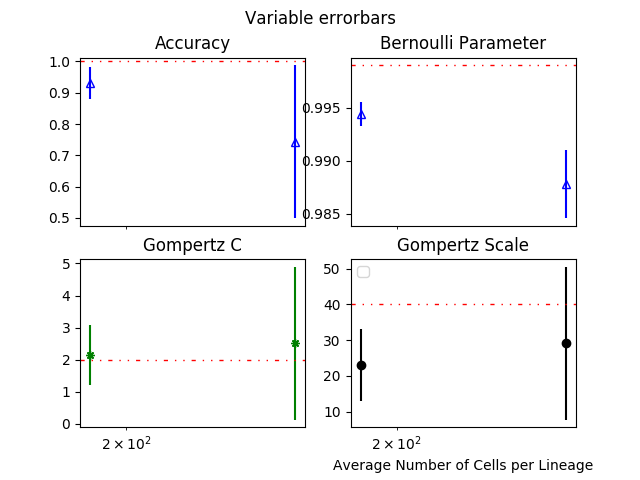
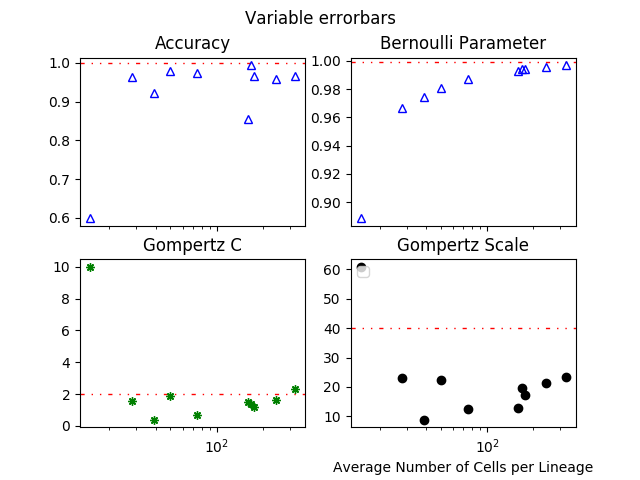
use the two files that end with hyphen test

diff --git a/lineage_number-test.py b/lineage_number-test.py
@@ -1,0 +1,133 @@
+import unittest
+import numpy as np
+import matplotlib
+matplotlib.use('Agg')
+from matplotlib import pyplot as plt
+
+
+from lineage.BaumWelch import fit
+from lineage.DownwardRecursion import get_root_gammas, get_nonroot_gammas
+from lineage.Viterbi import get_leaf_deltas, get_nonleaf_deltas, Viterbi
+from lineage.UpwardRecursion import get_leaf_Normalizing_Factors, get_leaf_betas, get_nonleaf_NF_and_betas
+from lineage.tHMM import tHMM
+from lineage.tHMM_utils import max_gen, get_gen, get_parents_for_level
+from lineage.Lineage_utils import remove_NaNs, get_numLineages, init_Population
+from lineage.Lineage_utils import generatePopulationWithTime as gpt
+from lineage.CellNode import CellNode
+
+experimentTime = 60
+locBern = [0.999]
+cGom = [2]
+scaleGom = [40]
+reps = 3
+numStates = 2
+bern = []
+c = []
+scale = []
+
+
+accuracy_st = []
+bern_st = []
+c_st = []
+scale_st = []
+
+
+length_holder_tHMM = []
+
+lineage1 = 1
+lineage2 = 8
+populations = range(lineage1,lineage2)
+
+accuracy_holder_tHMM = [] #list of lists of lists
+
+for num in populations: #a pop with num number of lineages
+    accuracy_holder_lin = [] #list of lists        
+    bern_holder = []
+    c_holder = []
+    scale_holder = []  
+    for rep in range(reps):
+        accuracy_rep = []
+        bern_rep = []
+        c_rep = []
+        scale_rep = []
+        
+        initCells = [num]
+        X1 = gpt(experimentTime, initCells, locBern, cGom, scaleGom)
+        X = remove_NaNs(X1)
+        tHMMobj = tHMM(X, numStates=numStates) # build the tHMM class with X
+        fit(tHMMobj, verbose=False)
+        for lin in range(tHMMobj.numLineages): #go through each lineage for a thmm with a set of lineages
+            diag = np.diagonal(tHMMobj.paramlist[lin]["T"])
+            chosen_state = np.argmax(diag)
+            deltas, state_ptrs = get_leaf_deltas(tHMMobj) # gets the deltas matrix
+            get_nonleaf_deltas(tHMMobj, deltas, state_ptrs)
+            v = Viterbi(tHMMobj, deltas, state_ptrs)
+            counts = np.bincount(v[lin])
+            maxcount = np.argmax(counts)
+            a = np.zeros((len(v[lin])),dtype=int)
+            for i in range(len(v[lin])):
+                a[i] = maxcount
+            wrong = 0
+            lineage = tHMMobj.population[lin] # getting the lineage in the Population by lineage index
+            for cell in range(len(lineage)): # for each cell in the lineage
+                if v[lin][cell] == a[cell]:
+                    pass
+                            #print(viterbi[cell.index],actual[cell.index])
+                else:
+                    wrong = wrong + 1
+
+            accuracy = (len(lineage) - wrong)/len(lineage) #must be fixed for more than 1 lineage
+            
+            accuracy_rep.append(accuracy)
+            bern_rep.append(tHMMobj.paramlist[lin]["E"][chosen_state,0])
+            c_rep.append(tHMMobj.paramlist[lin]["E"][chosen_state,1])
+            scale_rep.append(tHMMobj.paramlist[lin]["E"][chosen_state,2])
+        
+        accuracy_holder_lin.append(np.mean(accuracy_rep))
+        bern_holder.append(np.mean(bern_rep))
+        c_holder.append(np.mean(c_rep))
+        scale_holder.append(np.mean(scale_rep))
+    
+    accuracy_holder_tHMM.append(np.mean(accuracy_holder_lin))
+    length_holder_tHMM.append(num)
+    bern.append(np.mean(bern_holder))
+    c.append(np.mean(c_holder))
+    scale.append(np.mean(scale_holder))
+    
+    accuracy_st.append(np.std(accuracy_holder_lin))
+    bern_st.append(np.std(bern_holder))
+    c_st.append(np.std(c_holder))
+    scale_st.append(np.std(scale_holder))
+    
+    x=length_holder_tHMM
+
+fig, axs = plt.subplots(nrows=2, ncols=2, sharex=True)
+ax = axs[0,0]
+plt.xlabel('Average Number of Cells per Lineage')
+ax.errorbar(x, accuracy_holder_tHMM, yerr=accuracy_st, fmt='o', c='b',marker="*",fillstyle='none')
+ax.axhline(y=1, linestyle = (0, (3, 5, 1, 5, 1, 5)), linewidth=1, color='r',)
+
+ax.set_title('Accuracy')
+#ax.locator_params(nbins=4)
+ax = axs[0,1]
+plt.xlabel('Average Number of Cells per Lineage')
+ax.errorbar(x, bern, yerr=bern_st, fmt='o', c='b',marker="^",fillstyle='none')
+ax.set_title('Bernoulli Parameter')
+ax.axhline(y=locBern, linestyle = (0, (3, 5, 1, 5, 1, 5)), linewidth=1, color='r',)
+
+ax = axs[1,0]
+ax.set_xlabel('Lineages per Population')
+ax.errorbar(x,c,yerr = c_st,fmt='o',c='g',marker=(8,2,0))
+ax.axhline(y=cGom, linestyle = (0, (3, 5, 1, 5, 1, 5)), linewidth=1, color='r',)
+ax.set_title('Gompertz C')
+
+
+ax = axs[1,1]
+ax.set_xlabel('Lineages per Population')
+ax.errorbar(x,scale,yerr = scale_st,fmt='o',c='k')
+ax.axhline(y=scaleGom, linestyle = (0, (3, 5, 1, 5, 1, 5)), linewidth=1, color='r',)
+ax.set_title('Gompertz Scale')
+
+fig.suptitle('Lineage Length effect on tHMM Classification')
+
+plt.savefig('lineage_number_classification.png')

diff --git a/tree_length-test.py b/tree_length-test.py
@@ -1,0 +1,138 @@
+import unittest
+import numpy as np
+import matplotlib
+matplotlib.use('Agg')
+from matplotlib import pyplot as plt
+
+
+from lineage.BaumWelch import fit
+from lineage.DownwardRecursion import get_root_gammas, get_nonroot_gammas
+from lineage.Viterbi import get_leaf_deltas, get_nonleaf_deltas, Viterbi
+from lineage.UpwardRecursion import get_leaf_Normalizing_Factors, get_leaf_betas, get_nonleaf_NF_and_betas
+from lineage.tHMM import tHMM
+from lineage.tHMM_utils import max_gen, get_gen, get_parents_for_level
+from lineage.Lineage_utils import remove_NaNs, get_numLineages, init_Population
+from lineage.Lineage_utils import generatePopulationWithTime as gpt
+from lineage.CellNode import CellNode
+
+initCells = [1] # there should be around 50 lineages b/c there are 50 initial cells
+locBern = [0.999]
+cGom = [2]
+scaleGom = [40]
+reps = 3
+numStates = 2
+
+lin_length = []
+
+accuracy_holder_holder = []
+bern = []
+c = []
+scale = []
+cells = []
+
+
+accuracy_st = []
+bern_st = []
+c_st = []
+scale_st = []
+cells_st = []
+
+time1 = 75
+time2 = 90
+times = range(time1,time2)
+
+for experimentTime in times:
+    accuracy_holder = []
+    bern_holder = []
+    c_holder = []
+    scale_holder = []
+    cells_holder = []
+    for rep in range(reps):
+        X1 = gpt(experimentTime, initCells, locBern, cGom, scaleGom)
+        X = remove_NaNs(X1)
+        tHMMobj = tHMM(X, numStates=numStates) # build the tHMM class with X
+        fit(tHMMobj, verbose=False)
+        diag = np.diagonal(tHMMobj.paramlist[0]["T"])
+        chosen_state = np.argmax(diag)
+            
+        deltas, state_ptrs = get_leaf_deltas(tHMMobj) # gets the deltas matrix
+        get_nonleaf_deltas(tHMMobj, deltas, state_ptrs)
+        v = Viterbi(tHMMobj, deltas, state_ptrs)
+
+        counts = np.bincount(v[0])
+        maxcount = np.argmax(counts)
+        a = np.zeros((len(v[0])),dtype=int)
+        for i in range(len(v[0])):
+            a[i] = maxcount
+        
+        #write a holder for all lineages
+        wrong = 0
+        for num in range(tHMMobj.numLineages): # for each lineage in our Population
+            lineage = tHMMobj.population[num] # getting the lineage in the Population by lineage index
+
+            for cell in range(len(lineage)): # for each cell in the lineage
+                if v[0][cell] == a[cell]:
+                    pass
+                    #print(viterbi[cell.index],actual[cell.index])
+                else:
+                    wrong = wrong + 1
+            
+        accuracy = (len(lineage) - wrong)/len(lineage) #must be fixed for more than 1 lineage
+        
+        accuracy_holder.append(accuracy)
+        bern_holder.append(tHMMobj.paramlist[0]["E"][chosen_state,0])
+        c_holder.append(tHMMobj.paramlist[0]["E"][chosen_state,1])
+        scale_holder.append(tHMMobj.paramlist[0]["E"][chosen_state,2])
+        cells_holder.append(len(lineage))
+        
+    accuracy_holder_holder.append(np.mean(accuracy_holder))
+    bern.append(np.mean(bern_holder))
+    c.append(np.mean(c_holder))
+    scale.append(np.mean(scale_holder))
+    cells.append(np.mean(cells_holder))
+
+    accuracy_st.append(np.std(accuracy_holder))
+    bern_st.append(np.std(bern_holder))
+    c_st.append(np.std(c_holder))
+    scale_st.append(np.std(scale_holder))
+    cells_st.append(np.std(cells_holder))
+    
+    x=cells
+
+#figure 1a - accuracy
+
+
+
+
+# Now switch to a more OO interface to exercise more features.
+fig, axs = plt.subplots(nrows=2, ncols=2, sharex=True)
+ax = axs[0,0]
+ax.set_xscale('log')
+ax.errorbar(x, accuracy_holder_holder, yerr=accuracy_st, fmt='o', c='b',marker="*",label='accuracy',fillstyle='none')
+ax.axhline(y=1, linestyle = (0, (3, 5, 1, 5, 1, 5)), linewidth=1, color='r',)
+
+ax.set_title('Accuracy')
+#ax.locator_params(nbins=4)
+ax = axs[0,1]
+ax.set_xscale('log')
+ax.errorbar(x, bern, yerr=bern_st, fmt='o', c='b',marker="^",label='bern',fillstyle='none')
+ax.set_title('Bernoulli Parameter')
+ax.axhline(y=locBern, linestyle = (0, (3, 5, 1, 5, 1, 5)), linewidth=1, color='r',)
+
+ax = axs[1,0]
+ax.set_xlabel('Average Number of Cells per Lineage')
+ax.set_xscale('log')
+ax.errorbar(x,c,yerr = c_st,fmt='o',c='g',marker=(8,2,0),label='c')
+ax.axhline(y=cGom, linestyle = (0, (3, 5, 1, 5, 1, 5)), linewidth=1, color='r',)
+ax.set_title('Gompertz C')
+plt.xlabel('Average Number of Cells per Lineage')
+
+ax = axs[1,1]
+ax.set_xlabel('Average Number of Cells per Lineage')
+ax.set_xscale('log')
+ax.errorbar(x,scale,yerr = scale_st,fmt='o',c='k',label='scale')
+ax.axhline(y=scaleGom, linestyle = (0, (3, 5, 1, 5, 1, 5)), linewidth=1, color='r',)
+ax.set_title('Gompertz Scale')
+
+fig.suptitle('Tree Length Variation')
+plt.savefig('tree_length_classification.png')
